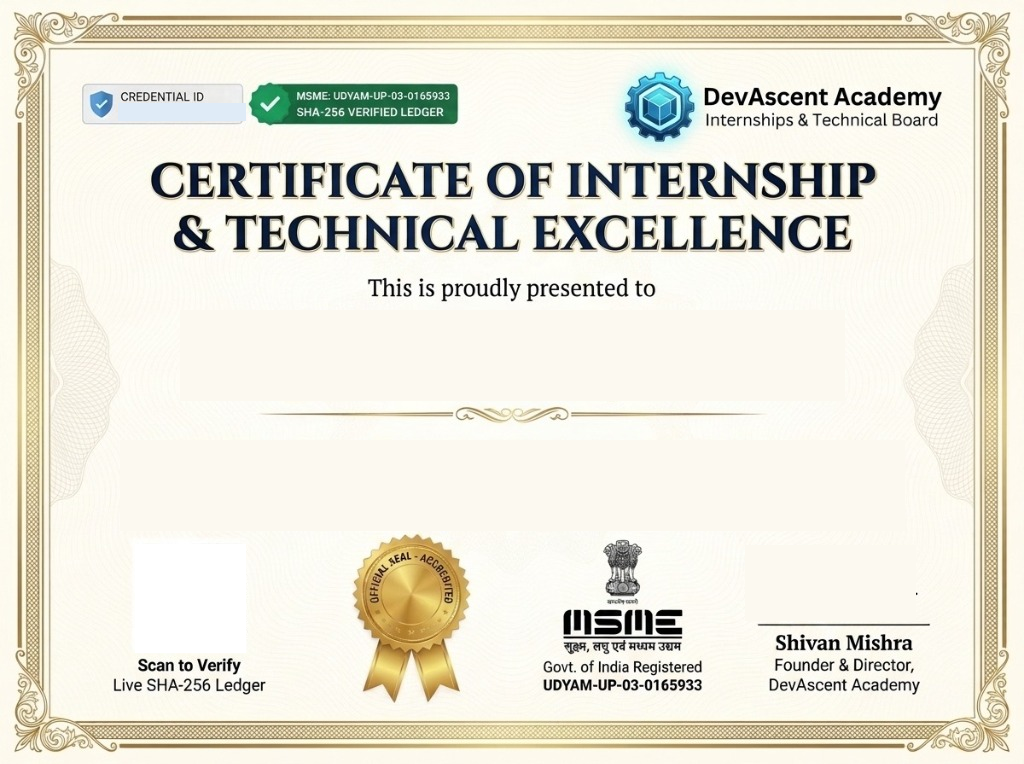
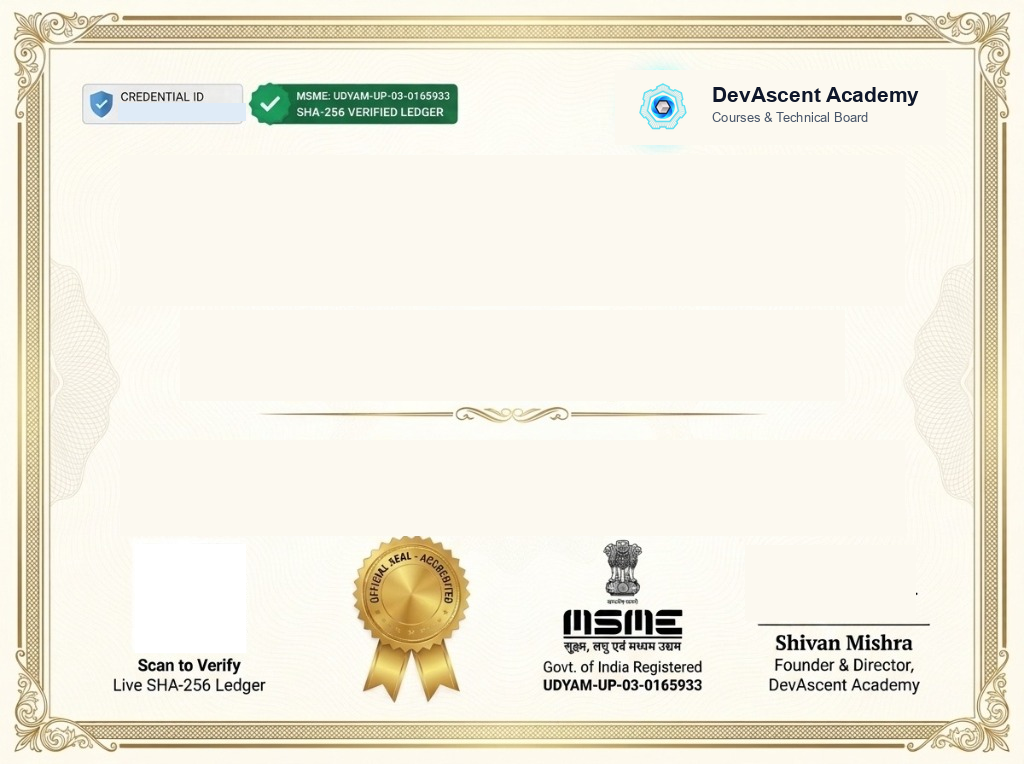
Final Certificate template Complete

Changed region(s): [[0.125, 0.0903, 0.9375, 0.3312], [0.3438, 0.3613, 0.6562, 0.3914]]

diff --git a/backend/src/shared/pdf.service.ts b/backend/src/shared/pdf.service.ts
@@ -96,7 +96,7 @@ export class PdfService {
     startedAt?: string;
     completedAt?: string;
   }): Promise<Buffer> {
-    // Format issue / completed date nicely (e.g. "15 March 2026")
+    // Format issue / completed date nicely (e.g. "12 November 2026")
     let formattedCompletedDate = details.completedAt || details.issuedAt;
     let formattedStartedDate = details.startedAt || '';
     try {
@@ -107,9 +107,9 @@ export class PdfService {
           month: 'long',
           year: 'numeric',
         });
-        // Default start date to 8 weeks prior if not explicitly provided
+        // Default start date to 4 weeks (28 days) prior if not explicitly provided
         if (!formattedStartedDate) {
-          const startDateObj = new Date(d.getTime() - 56 * 24 * 60 * 60 * 1000);
+          const startDateObj = new Date(d.getTime() - 28 * 24 * 60 * 60 * 1000);
           formattedStartedDate = startDateObj.toLocaleDateString('en-GB', {
             day: 'numeric',
             month: 'long',
@@ -122,13 +122,13 @@ export class PdfService {
     }
 
     if (!formattedStartedDate) {
-      formattedStartedDate = '15 January 2026';
+      formattedStartedDate = '17 September 2026';
     }
     if (!formattedCompletedDate) {
-      formattedCompletedDate = '15 March 2026';
+      formattedCompletedDate = '12 November 2026';
     }
 
-    const durationText = details.duration || '08 Weeks';
+    const durationText = details.duration || '4-Week / 40-Hour';
     const verifyUrl = details.verifyUrl
       ? details.verifyUrl.replace('https://www.devascentacademy.me', 'https://dev-ascent-academy.vercel.app')
       : `https://dev-ascent-academy.vercel.app/verify/${details.certId}`;
@@ -172,7 +172,7 @@ export class PdfService {
         const scaleX = W / 1024;
         const scaleY = H / 764;
 
-        // 1. Draw Master Ivory & Gold Filigree Base Template
+        // 1. Draw Master Ivory & Gold Filigree Base Template (lowest z-index)
         doc.image(templatePath, 0, 0, { width: W, height: H });
 
         // 2. Dynamic Credential ID in top-left blue badge
@@ -182,29 +182,43 @@ export class PdfService {
         doc.fontSize(8.5).font('Helvetica-Bold').fillColor('#1E3A8A')
           .text(details.certId, badgeX, badgeY, { width: badgeW, align: 'center', characterSpacing: 0.5 });
 
-        // 3. Dynamic Student Recipient Name (Centerpiece)
-        const nameY = 328 * scaleY;
+        // 3. Main Title: CERTIFICATE OF COMPLETION & TECHNICAL EXCELLENCE
+        const titleY1 = 168 * scaleY;
+        doc.fontSize(25).font('Times-Bold').fillColor('#0F172A')
+          .text('CERTIFICATE OF COMPLETION', 0, titleY1, { width: W, align: 'center', characterSpacing: 1.5 });
+
+        const titleY2 = 212 * scaleY;
+        doc.fontSize(12.5).font('Times-Bold').fillColor('#0F172A')
+          .text('& TECHNICAL EXCELLENCE', 0, titleY2, { width: W, align: 'center', characterSpacing: 1.2 });
+
+        // 4. "Presented To" Section
+        const presY = 274 * scaleY;
+        doc.fontSize(11).font('Times-Roman').fillColor('#475569')
+          .text('This certificate is proudly presented to', 0, presY, { width: W, align: 'center' });
+
+        // 5. Dynamic Student Recipient Name (Centerpiece)
+        const nameY = 326 * scaleY;
         doc.fontSize(38).font('Times-BoldItalic').fillColor('#0F172A')
           .text(details.recipientName, 0, nameY, { width: W, align: 'center' });
 
-        // 4. Citation Narrative
-        const citY = 444 * scaleY;
-        doc.fontSize(12).font('Times-Roman').fillColor('#1E293B')
-          .text(`for successfully completing an intensive ${durationText} Virtual Internship in`, 0, citY, { width: W, align: 'center' });
+        // 6. Dynamic Citation Narrative (The New Attractive Message)
+        const citY = 442 * scaleY;
+        doc.fontSize(11.5).font('Times-Roman').fillColor('#1E293B')
+          .text(`for successfully completing the rigorous ${durationText} production engineering curriculum in the`, 0, citY, { width: W, align: 'center' });
 
         doc.fontSize(14).font('Times-Bold').fillColor('#0F172A')
-          .text(`${details.courseTitle} at DevAscent Academy`, 0, citY + 16, { width: W, align: 'center' });
+          .text(`${details.courseTitle}`, 0, citY + 17, { width: W, align: 'center' });
 
-        doc.fontSize(12).font('Times-Roman').fillColor('#1E293B')
-          .text(`from ${formattedStartedDate} to ${formattedCompletedDate}.`, 0, citY + 33, { width: W, align: 'center' });
+        doc.fontSize(10.5).font('Times-Roman').fillColor('#1E293B')
+          .text(`at DevAscent Academy, demonstrating exceptional technical competency and project execution from ${formattedStartedDate} to ${formattedCompletedDate}.`, 0, citY + 34, { width: W, align: 'center' });
 
-        // 5. Dynamic QR Code in Pillar 1
+        // 7. Dynamic QR Code in Pillar 1
         const qrX = 136 * scaleX;
         const qrY = 546 * scaleY;
         const qrSize = 108 * scaleX;
         doc.image(qrBuffer, qrX, qrY, { width: qrSize, height: qrSize });
 
-        // 6. Authentic Signature in Pillar 4
+        // 8. Authentic Signature in Pillar 4
         if (signaturePath && fs.existsSync(signaturePath)) {
           const sigX = 755 * scaleX;
           const sigY = 552 * scaleY;
@@ -238,16 +252,16 @@ export class PdfService {
           doc.image(logoPath, W - 210, 32, { width: 36 });
         }
         doc.fontSize(13).font('Times-Bold').fillColor('#0F172A').text('DevAscent Academy', W - 165, 34);
-        doc.fontSize(7.5).font('Helvetica').fillColor('#64748B').text('Internships & Technical Board', W - 165, 50);
+        doc.fontSize(7.5).font('Helvetica').fillColor('#64748B').text('Courses & Technical Board', W - 165, 50);
 
         // Titles
-        doc.fontSize(22).font('Times-Bold').fillColor('#0F172A')
-          .text('CERTIFICATE OF INTERNSHIP', 0, 105, { align: 'center', characterSpacing: 1.5 });
-        doc.fontSize(10).font('Times-Bold').fillColor('#B8860B')
+        doc.fontSize(23).font('Times-Bold').fillColor('#0F172A')
+          .text('CERTIFICATE OF COMPLETION', 0, 105, { align: 'center', characterSpacing: 1.5 });
+        doc.fontSize(11).font('Times-Bold').fillColor('#0F172A')
           .text('& TECHNICAL EXCELLENCE', 0, 132, { align: 'center', characterSpacing: 1.2 });
 
-        doc.fontSize(9).font('Times-Roman').fillColor('#64748B')
-          .text('This is proudly presented to', 0, 160, { align: 'center' });
+        doc.fontSize(10).font('Times-Roman').fillColor('#475569')
+          .text('This certificate is proudly presented to', 0, 160, { align: 'center' });
 
         // Student Name
         doc.fontSize(36).font('Times-BoldItalic').fillColor('#0F172A')
@@ -257,12 +271,12 @@ export class PdfService {
         doc.moveTo(W / 2 - 120, 235).lineTo(W / 2 + 120, 235).lineWidth(1.2).strokeColor('#C5A059').stroke();
 
         // Citation
-        doc.fontSize(12).font('Times-Roman').fillColor('#1E293B')
-          .text(`for successfully completing an intensive ${durationText} Virtual Internship in`, 0, 255, { align: 'center' });
+        doc.fontSize(11.5).font('Times-Roman').fillColor('#1E293B')
+          .text(`for successfully completing the rigorous ${durationText} production engineering curriculum in the`, 0, 255, { align: 'center' });
         doc.fontSize(14).font('Times-Bold').fillColor('#0F172A')
-          .text(`${details.courseTitle} at DevAscent Academy`, 0, 273, { align: 'center' });
-        doc.fontSize(12).font('Times-Roman').fillColor('#1E293B')
-          .text(`from ${formattedStartedDate} to ${formattedCompletedDate}.`, 0, 292, { align: 'center' });
+          .text(`${details.courseTitle}`, 0, 273, { align: 'center' });
+        doc.fontSize(10.5).font('Times-Roman').fillColor('#1E293B')
+          .text(`at DevAscent Academy, demonstrating exceptional technical competency and project execution from ${formattedStartedDate} to ${formattedCompletedDate}.`, 0, 292, { align: 'center' });
 
         // 4 Pillars Footer
         const footY = H - 150;

diff --git a/frontend/src/components/MasterCertificate.tsx b/frontend/src/components/MasterCertificate.tsx
@@ -120,7 +120,7 @@ export default function MasterCertificate({
               DevAscent <span className="text-indigo-600 dark:text-indigo-400">Academy</span>
             </span>
             <span className="text-[9px] font-semibold tracking-wider text-slate-500 dark:text-slate-400 uppercase">
-              Internships &amp; Technical Board
+              Courses &amp; Technical Board
             </span>
           </div>
         </div>
@@ -134,10 +134,10 @@ export default function MasterCertificate({
 
         {/* Title */}
         <h1
-          className="font-serif text-2xl sm:text-4xl md:text-5xl font-black tracking-wide text-slate-900 dark:text-white mt-1 drop-shadow-sm"
+          className="font-serif text-2xl sm:text-4xl md:5xl font-black tracking-wide text-slate-900 dark:text-white mt-1 drop-shadow-sm"
           style={{ fontFamily: "'Cinzel', 'Times New Roman', Georgia, serif" }}
         >
-          Certificate of Internship
+          Certificate of Completion
         </h1>
 
         <p className="text-[11px] sm:text-xs font-sans uppercase tracking-[0.25em] text-slate-500 dark:text-slate-400 mt-0.5">
@@ -152,7 +152,7 @@ export default function MasterCertificate({
         </div>
 
         <p className="text-[10px] sm:text-xs font-sans tracking-[0.2em] uppercase text-slate-500 dark:text-slate-400">
-          This is proudly presented to
+          This certificate is proudly presented to
         </p>
 
         {/* Recipient Student Name */}
@@ -168,12 +168,9 @@ export default function MasterCertificate({
 
         {/* Citation Narrative */}
         <p className="max-w-2xl mx-auto text-xs sm:text-[13px] md:text-sm leading-relaxed text-slate-700 dark:text-slate-300 font-sans mt-2">
-          for successfully completing an intensive <strong className="text-slate-900 dark:text-white font-bold">{duration}</strong> Virtual Internship in{' '}
+          for successfully completing the rigorous <strong className="text-slate-900 dark:text-white font-bold">{duration}</strong> production engineering curriculum in the{' '}
           <strong className="text-indigo-700 dark:text-indigo-400 font-bold">{courseTitle}</strong> at{' '}
-          <strong className="text-slate-900 dark:text-white">DevAscent Academy</strong> from {startDate} to {endDate}.
-        </p>
-        <p className="max-w-2xl mx-auto text-[10px] sm:text-xs text-slate-500 dark:text-slate-400 font-sans mt-1">
-          The candidate demonstrated exemplary technical competency in production architectures, distributed systems, and capstone repository delivery.
+          <strong className="text-slate-900 dark:text-white">DevAscent Academy</strong>, demonstrating exceptional technical competency and project execution from {startDate} to {endDate}.
         </p>
       </div>
 
